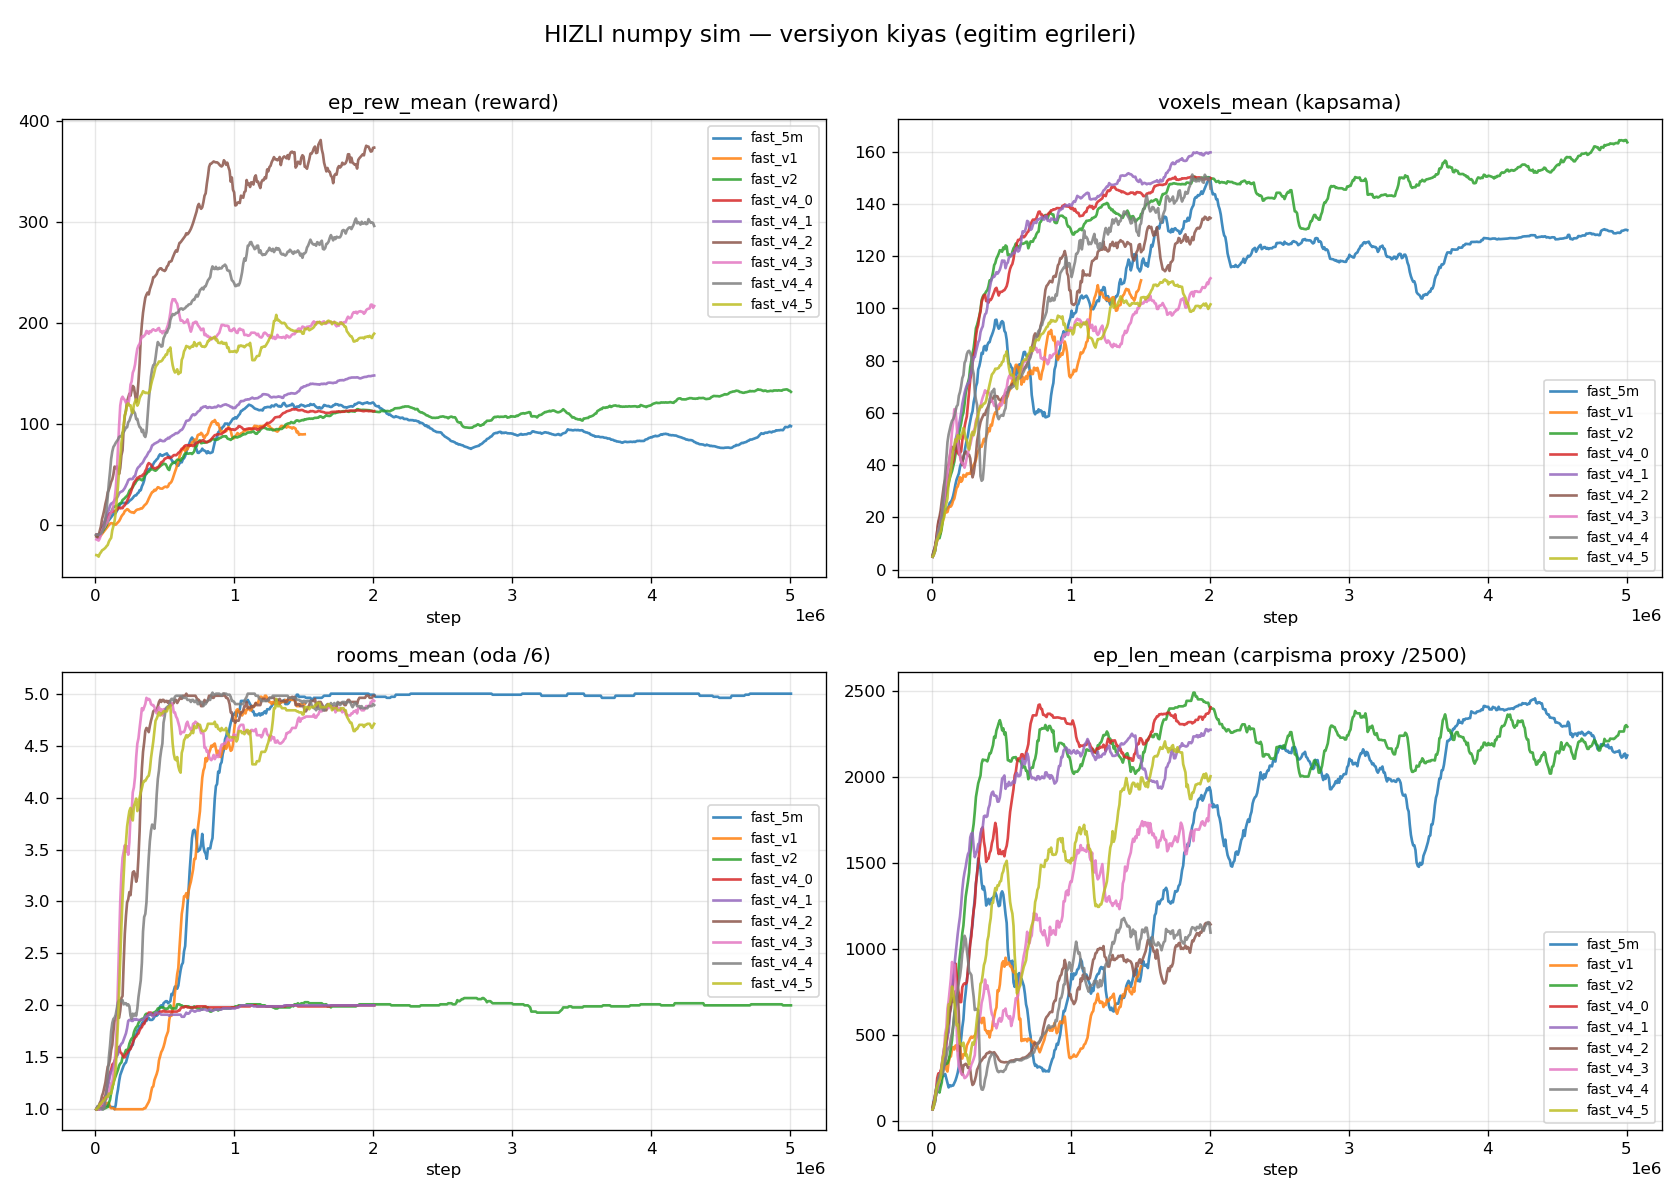
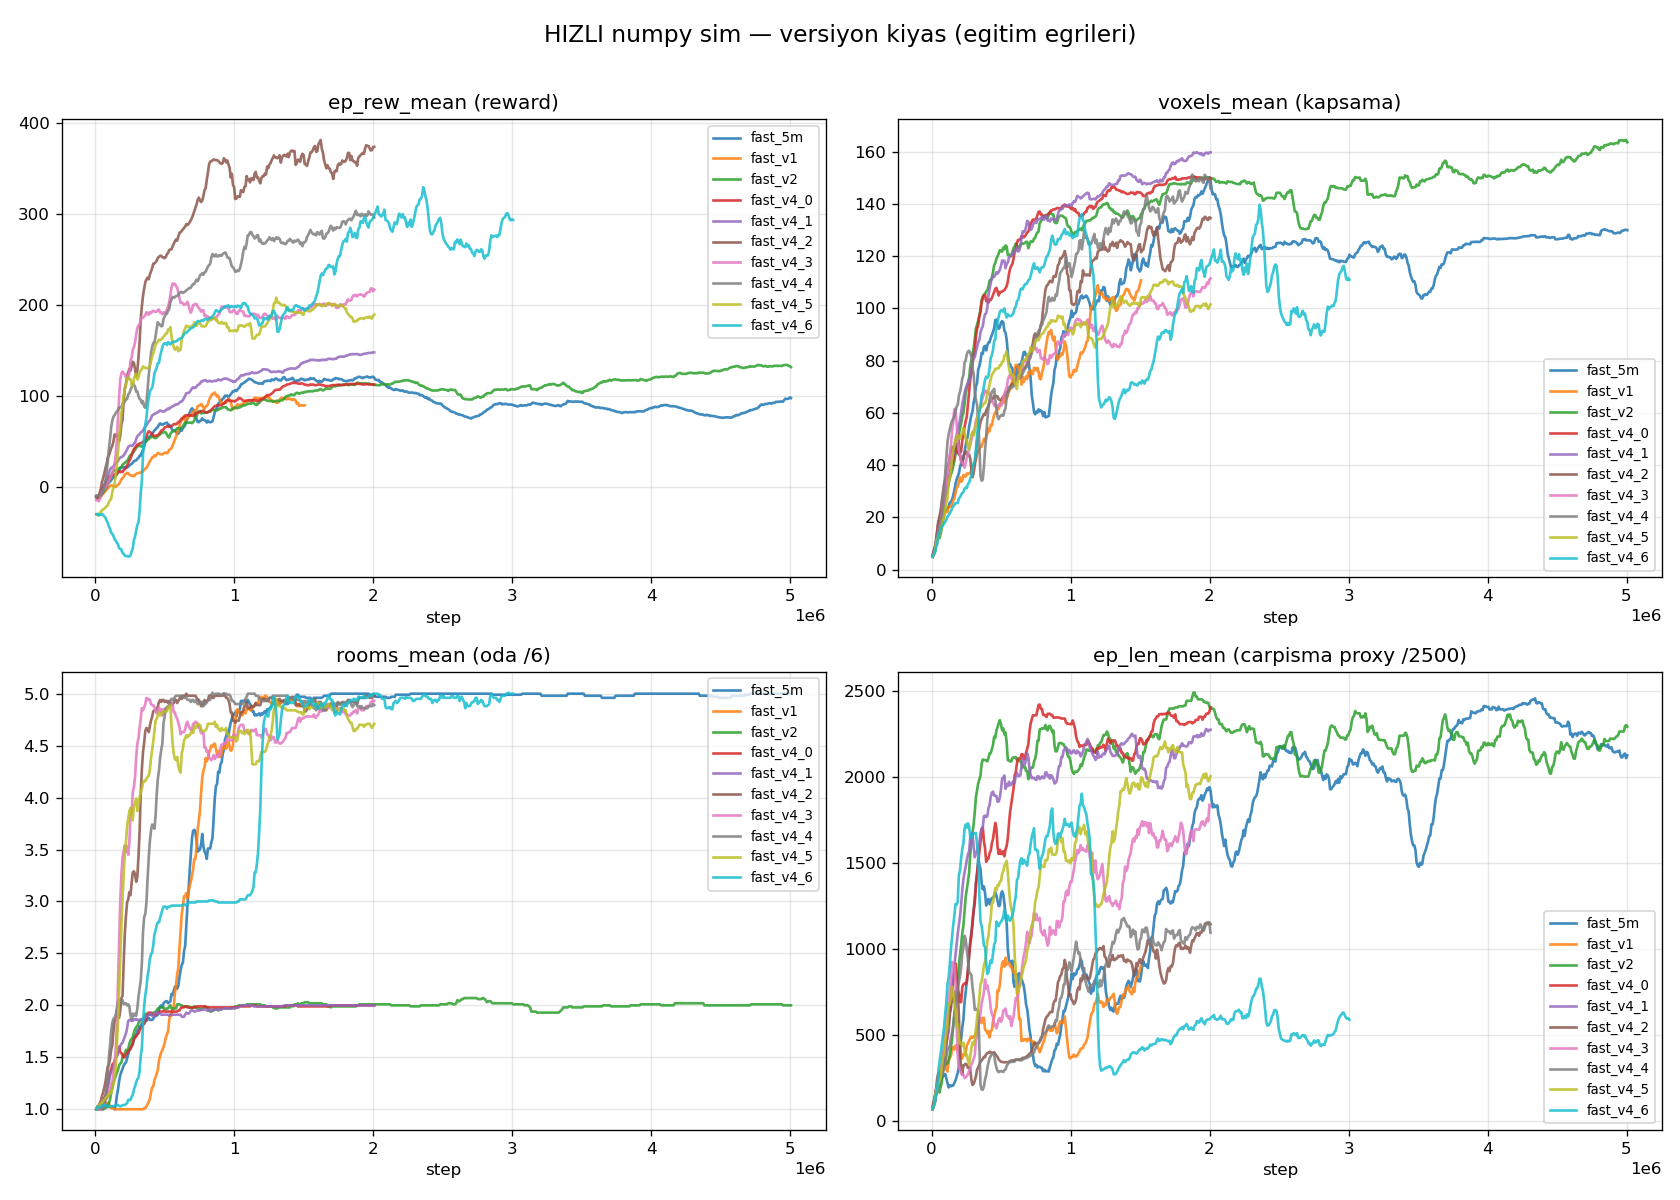
v4.6 eval (KESIF REKORU 176vox/%30.9 AMA %93 carpisma) + v4.x tam karsilastirma (EN IYI=v4.5) -> v4.7 sentez

diff --git a/docs/FAST_V4_COMPARISON.md b/docs/FAST_V4_COMPARISON.md
@@ -1,0 +1,44 @@
+# Hızlı Sim v4.x Zinciri — Tam Karşılaştırma (PPO, numpy/Gymnasium)
+
+Sabit harita (6 oda, tek kat), drone hep R0'dan başlar, 3 hareketli engel.
+Tüm v4.x: `lidar_history=2` (engel hareketini gözle), n_envs=8, deterministik 100-bölüm eval.
+Hedef: **çarpışmadan MAKSİMUM voxel tara.**
+
+## Sonuç Tablosu
+
+| Versiyon | Değişen | Çarpışma | Voxel (ort) | Voxel (max) | Oda (ort) | Union Kapsama | Hayatta (ep_len) |
+|---|---|---:|---:|---:|---:|---:|---:|
+| v4.0 | taban (room 10, far 0) | %32 | 142 | — | 2.0 | — | — |
+| v4.1 | room_bonus 30 | **%2** | 150 | — | 2.0 (dar) | ~6% | %100 |
+| v4.2 | breadth push (far 2.5, ent 0.02) | %85 | 143 | — | 4.98 | — | %66 |
+| v4.3 | "denge" (far 1.5, coll 14, ent 0.01) | %100 ❌ | 37 | 51 | 3.88 | %5.9 | %7 (kötü yakınsama) |
+| v4.4 | güvenli taban + far 1.0 | %97 | 167 | 216 | 4.94 | %26.7 | %52 |
+| **v4.5** | **far 1.0 + collision 30** | **%8** ✅ | 114 | 132 | **5.0** | %15.6 | **%95** |
+| v4.6 | far 1.5 + collision 30 + 3M | %93 | **176** | **247** | 5.0 | **%30.9** | %54 |
+
+## Ana Bulgular (rapor için)
+
+1. **Çarpışma çözümü = `lidar_history=2`.** Engelin son 2 lidar karesini gözleme → ajan hızını çıkarsıyor → kaçabiliyor. (Bu olmadan ~%80 çarpışma; v3 zincirinde ödül-şekillendirme TEK BAŞINA çözemedi.)
+
+2. **Breadth–güvenlik trade-off'u.** Geniş keşif (5 oda) ile düşük çarpışma doğal gerilimde:
+   - v4.1: güvenli (%2) ama dar (2 oda) — temkinli politika 2-oda yerel optimumuna takılıyor.
+   - v4.4/v4.6: geniş (5 oda, 167–176 voxel) ama çok çarpıyor (%93–97).
+
+3. **Kilit kaldıraç = çarpışma cezası ölçeği.** Voxel başına +1 + far_voxel + room_bonus ile bir bölümün getirisi ~+137..+165. Çarpışma -10 bunun yanında küçük → ajan "keşfet, -10'u ye" diyor (v4.4 %97).
+   - **collision_penalty 10→30** → çarpışma **%97→%8** (v4.5). Keşif bitince tek terminal seçenek çarpma(-30) ya da timeout(0) olduğundan ajan "gez SONRA hayatta kal" öğreniyor.
+
+4. **far_voxel_bonus çok hassas.** collision=30 sabitken far_voxel 1.0 → %8 çarpışma (v4.5); far_voxel 1.5 → %93 (v4.6). Uzak-hücre dürtüsü güvenlik cezasını ezebiliyor. Güvenli rejim için far_voxel ≤ ~1.0.
+
+5. **Ödül-şekillendirme yakınsamayı kırabilir.** v4.3 (agresif çoklu değişiklik) %100 çarpışma + voxel çöküşü → PPO kötü local optimum. Tek-değişken, kademeli ilerleme daha güvenli.
+
+## EN İYİ POLİTİKA → **v4.5**
+
+"Çarpışmadan maksimum voxel" hedefine en uygun **deploy edilebilir** politika:
+- **Çarpışma %8** (görevi tamamlıyor, %95 hayatta kalıyor)
+- **Her bölümde 5 odanın hepsine ulaşıyor** (rooms 5.0)
+- 114 voxel ortalama (temkinli ama güvenli tarama)
+
+v4.4/v4.6 ham keşifte daha yüksek (167–176 voxel) ama %93–97 çarpışma → gerçek görevde drone düşer, "çarpışmadan" kısıtını ihlal eder.
+
+> Gazebo (yavaş, gerçekçi fizik) vs numpy/Gymnasium (hızlı, ~100x): aynı ortam, iki ayaklı kanıt.
+> Gazebo'da ~157 voxel/2 oda referansı; hızlı sim'de v4.5 ile %8 çarpışma + 5 oda güvenli kapsama.

diff --git a/docs/EVAL_fast_v4_6.md b/docs/EVAL_fast_v4_6.md
@@ -1,0 +1,16 @@
+# fast_v4_6 (numpy/Gymnasium sim) — 100 episode
+
+Model: `fast_drone_final.zip` | deterministic | hareketli engeller aktif | ~100x hizli sim
+
+| Metrik | Deger |
+|---|---|
+| Return | 165.3 ± 25.5 (min 114, max 206) |
+| Voxel / 1024 | 176.1 ± 43.1 (min 92, max 247) |
+| Oda / 6 | 5.0 ± 0.0 (min 5, max 5) |
+| Episode / 2500 | 1342.8 ± 607.5 (min 451, max 2500) |
+| Carpisma orani | 93% (93/100) |
+| Birlesik kapsama | 316/1024 (31%) |
+
+![coverage](figures/eval_fast_v4_6_coverage.png)
+
+![traj](figures/eval_fast_v4_6_trajectories.png)
